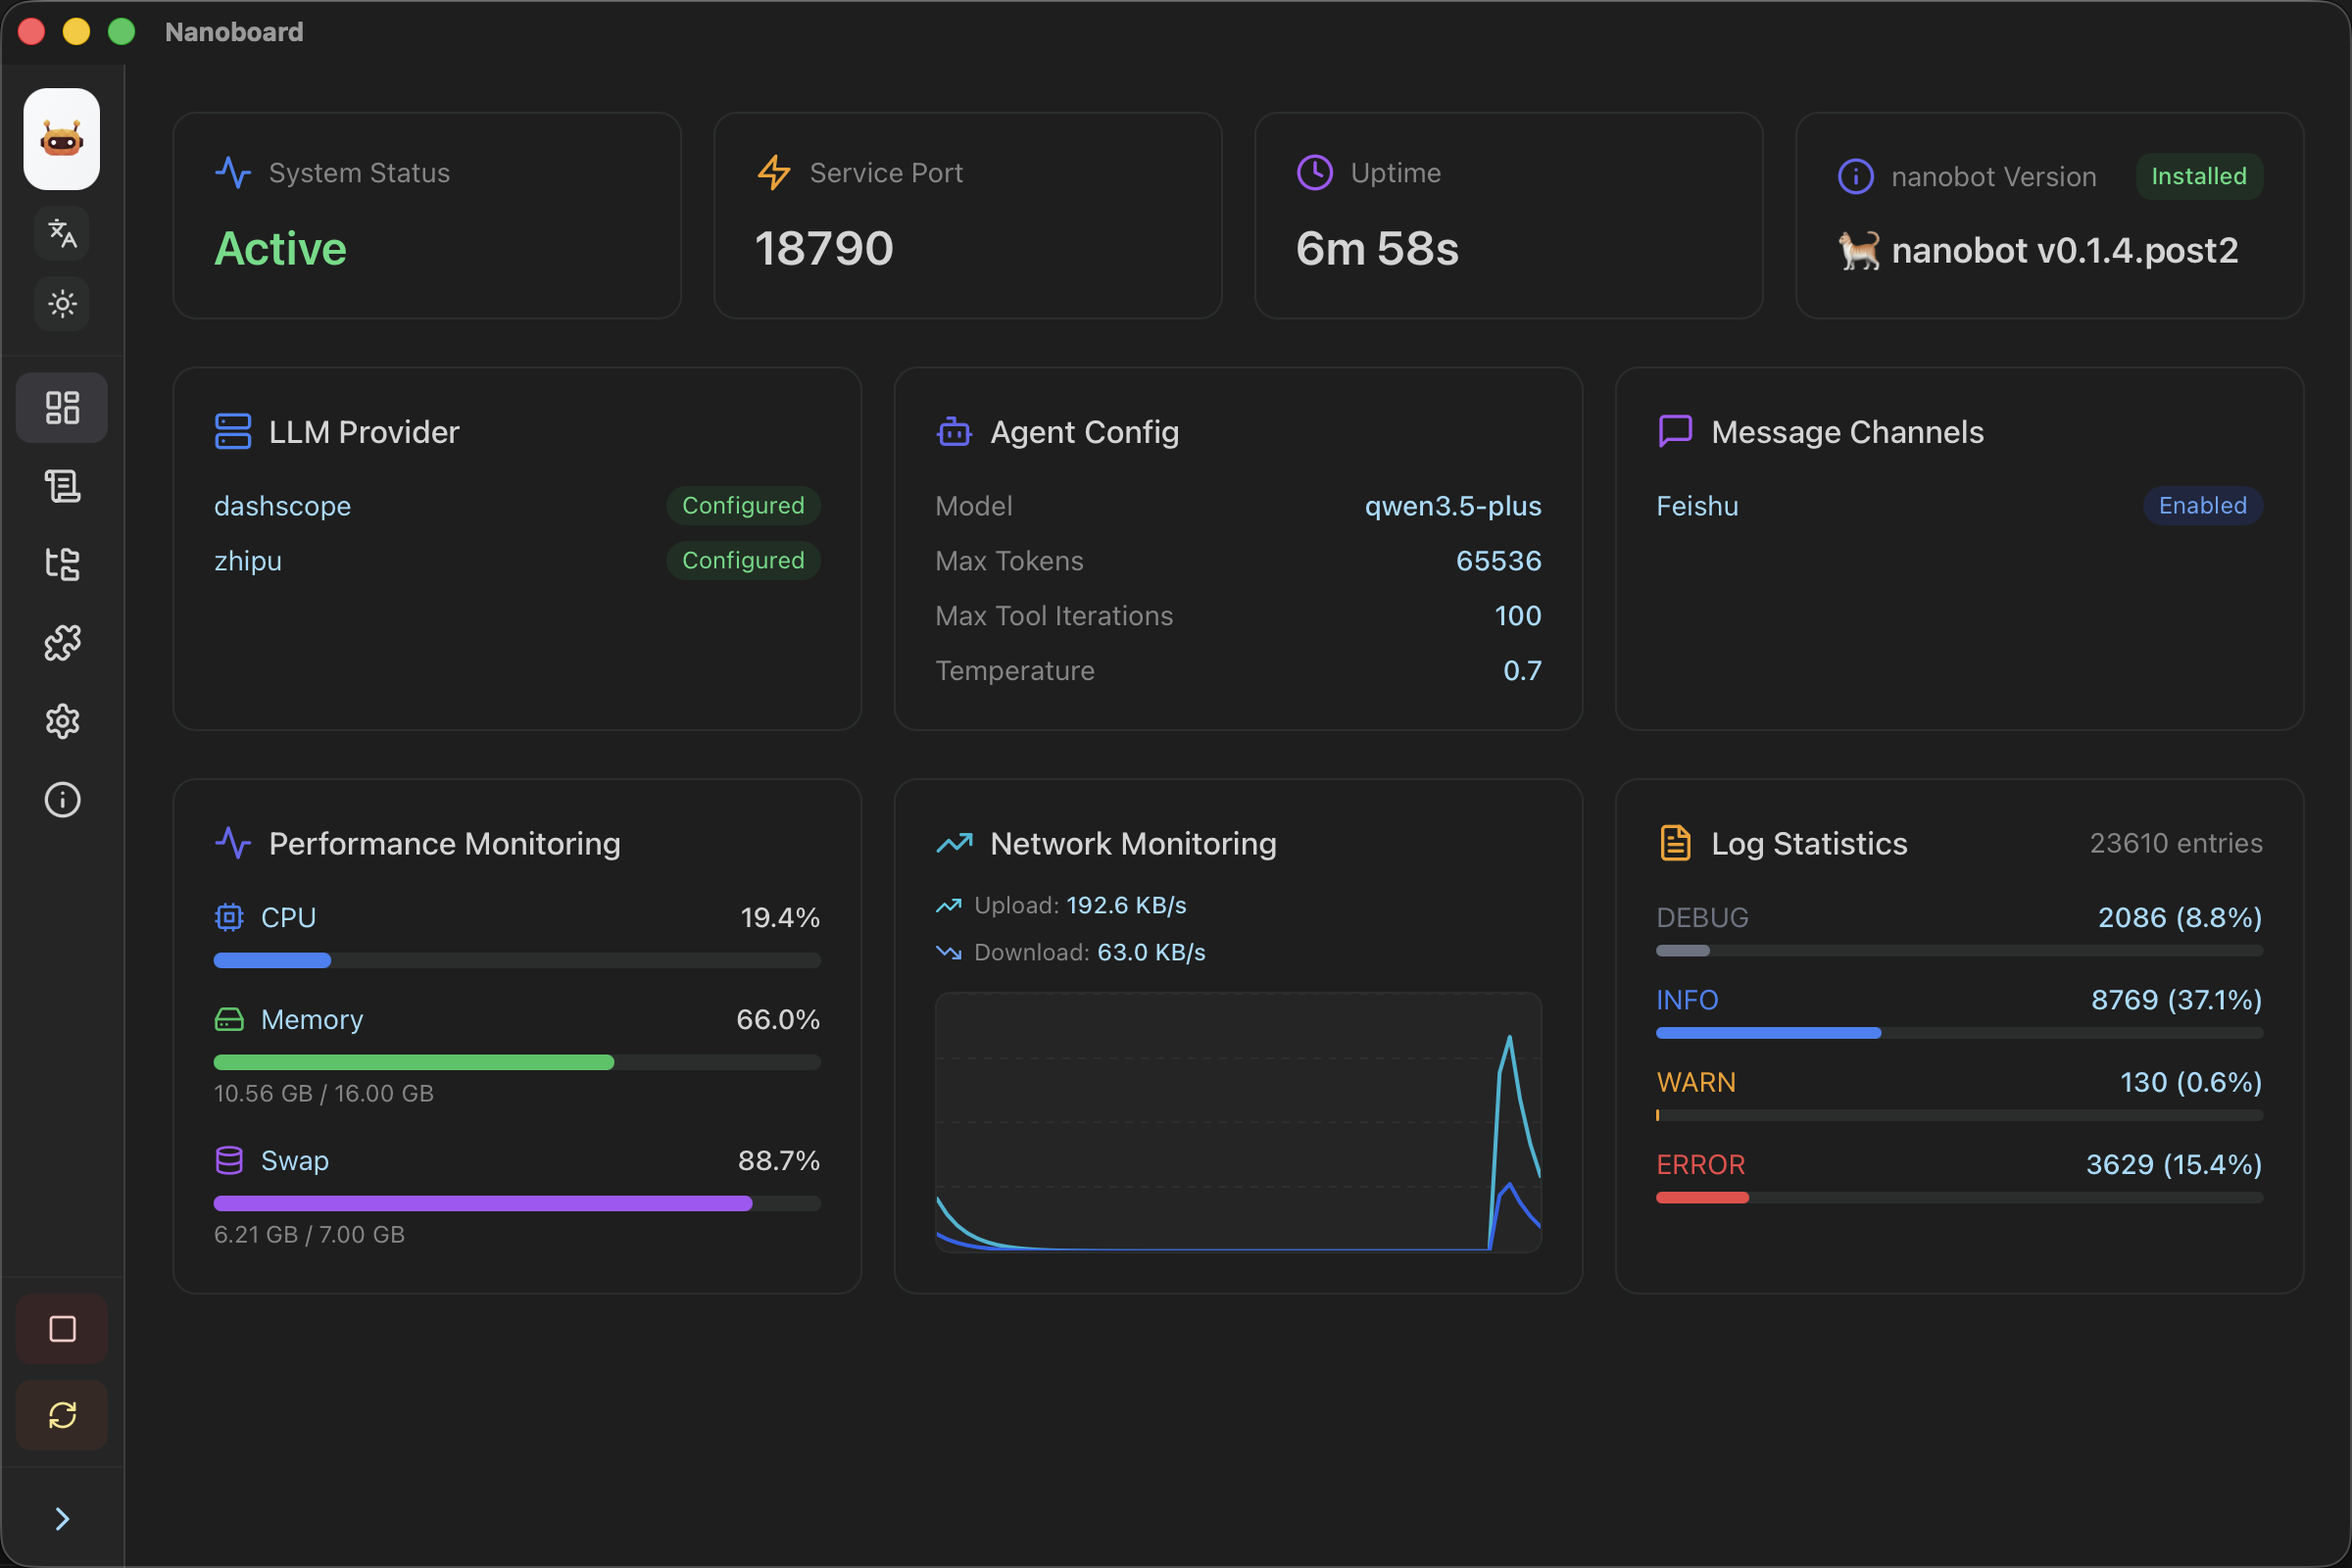
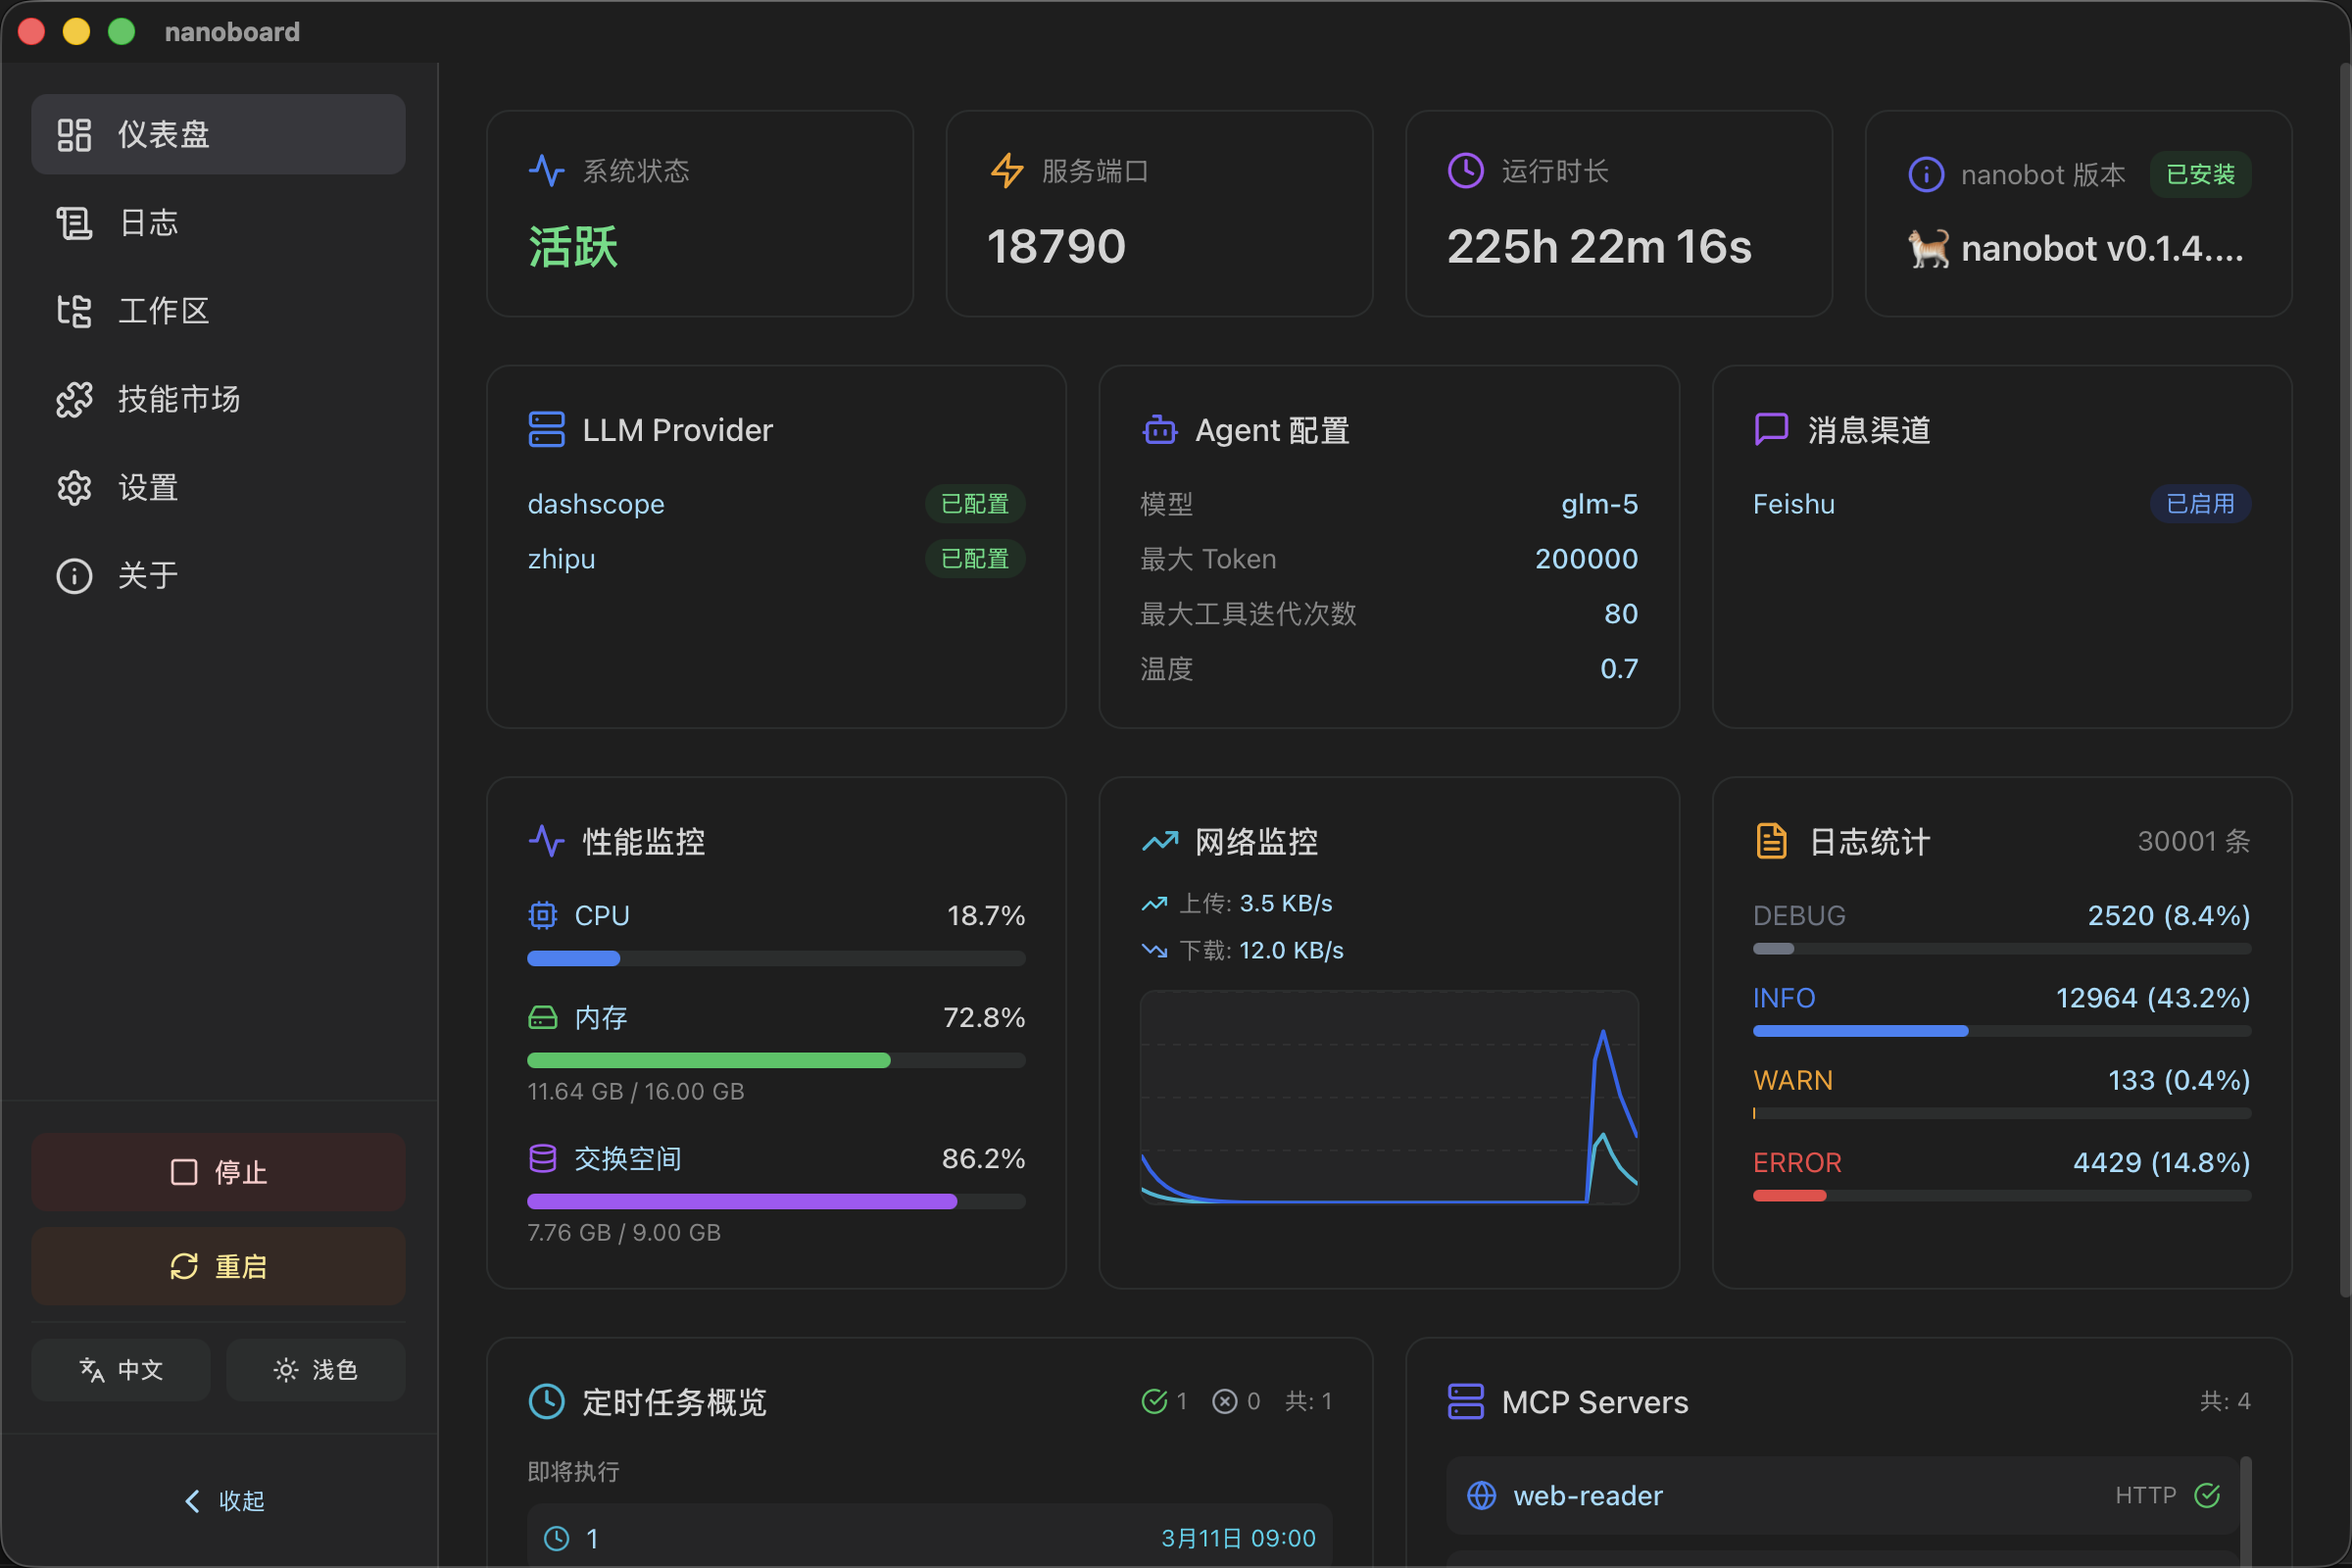
doc:更新文档

diff --git a/README_en.md b/README_en.md
@@ -19,7 +19,7 @@ English | **[简体中文](README.md)**
 - **Cross-platform** - Whether you're on Windows, Mac, or Linux, nanoboard has you covered with seamless cross-platform support, ensuring a consistent experience across all your devices!
 - **Lightweight** - Built with Rust + Tauri, nanoboard offers excellent performance with minimal resource usage, embodying the nano philosophy in its design!
 
-
+<img src="public/screenshots/preview_en.png" alt="preview_en" style="border-radius: 15px; box-shadow: 0 0 30px rgba(0, 217, 255, 0.3); margin-top: 20px;" />
 
 ## Quick Start
 

diff --git a/README.md b/README.md
@@ -19,7 +19,7 @@
 - **通用化** - 无论你是 Windows、Mac 或 Linux，都能完美支持，真正做到无缝跨平台！
 - **轻量化** - Rust + Tauri 构建，性能优越并且资源占用极低，用 nano 的方式构建！
 
-
+<img src="public/screenshots/preview.png" alt="preview" style="border-radius: 15px; box-shadow: 0 0 30px rgba(0, 217, 255, 0.3); margin-top: 20px;" />
 
 ## 快速开始
 
